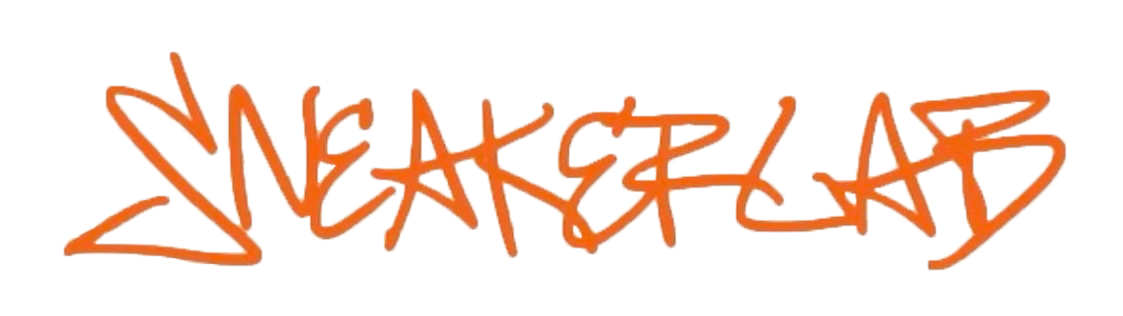
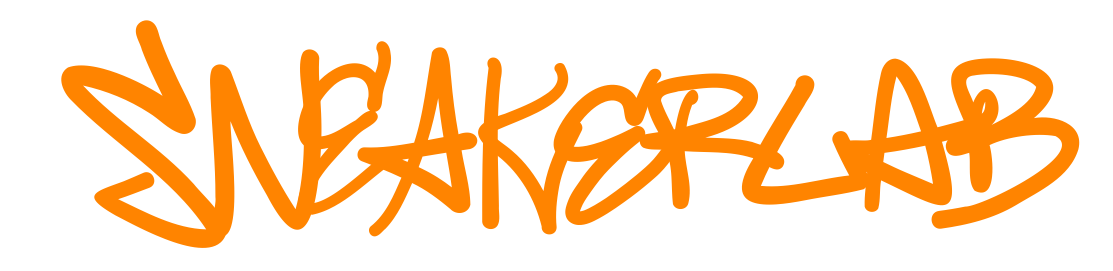
login on navbar, search bar & search page component

diff --git a/client/src/components/pages/Discover.js b/client/src/components/pages/Discover.js
@@ -1,10 +1,5 @@
 import React, { useState, useEffect } from "react";
-import {
-  GoogleOAuthProvider,
-  GoogleLogin,
-  googleLogout,
-  useGoogleLogin,
-} from "@react-oauth/google";
+import { GoogleOAuthProvider, GoogleLogin, useGoogleLogin } from "@react-oauth/google";
 
 import "../../utilities.css";
 import "./Discover.css";
@@ -14,7 +9,7 @@ import { get } from "../../utilities";
 //TODO: REPLACE WITH YOUR OWN CLIENT_ID
 const GOOGLE_CLIENT_ID = "577941677274-3aeilnjtp2hj98r8jvcsa6jvkoq9r5kc.apps.googleusercontent.com";
 
-const Discover = ({ userId, handleLogin, handleLogout }) => {
+const Discover = ({ userId, handleLogin }) => {
   const [lastSearch, setLastSearch] = useState("");
 
   useEffect(() => {
@@ -36,18 +31,6 @@ const Discover = ({ userId, handleLogin, handleLogout }) => {
   return (
     <GoogleOAuthProvider clientId={GOOGLE_CLIENT_ID}>
       {userId ? (
-        <button
-          onClick={() => {
-            googleLogout();
-            handleLogout();
-          }}
-        >
-          Logout
-        </button>
-      ) : (
-        <GoogleLogin onSuccess={handleLogin} onError={(err) => console.log(err)} />
-      )}
-      {userId ? (
         lastSearch ? (
           <div class="centered">
             <p>User logged in, last search: {lastSearch}</p>
@@ -60,13 +43,17 @@ const Discover = ({ userId, handleLogin, handleLogout }) => {
       ) : (
         <>
           <div class="centered">
-            <img src={logo} width="500" height="150" />
-            <div class="u-flex-alignCenter">
+            <img src={logo} width="600" height="150" />
+            <div className="u-flex-alignCenter">
               <button
                 className="u-pointer"
                 onClick={() => {
-                  useGoogleLogin();
-                  handleLogin();
+                  useGoogleLogin({
+                    onSuccess: handleLogin(),
+                    onError: (err) => {
+                      console.log(err);
+                    },
+                  });
                 }}
               >
                 login

diff --git a/client/src/components/modules/NavBar.js b/client/src/components/modules/NavBar.js
@@ -1,27 +1,49 @@
 import React from "react";
 import { Link } from "@reach/router";
 
+import { GoogleOAuthProvider, GoogleLogin, googleLogout } from "@react-oauth/google";
+
 import "./NavBar.css";
-import Search from "./Search.js";
+import SearchBar from "./SearchBar";
 
 import logo from "../../public/sneakerlab.png";
 
+const GOOGLE_CLIENT_ID = "577941677274-3aeilnjtp2hj98r8jvcsa6jvkoq9r5kc.apps.googleusercontent.com";
+
 const NavBar = (props) => {
   return (
-    <nav className="navContainer">
-      <Link to="/">
-        <img src={logo} height="70" width="200" className="floatLeft u-pointer u-relative" />
-      </Link>
-      <div className="u-reverseFlex">
-        <Link to="/profile/" className="nav-link">
-          profile
+    <GoogleOAuthProvider clientId={GOOGLE_CLIENT_ID}>
+      <nav className="navContainer">
+        <Link to="/">
+          <img src={logo} height="75" width="250" className="floatLeft u-pointer u-relative" />
         </Link>
-        <Link to="/" className="nav-link">
-          discover
-        </Link>
-        <Search id={props.id} />
-      </div>
-    </nav>
+        <div className="u-reverseFlex">
+          {props.id ? (
+            <button1
+              className="u-pointer"
+              onClick={() => {
+                googleLogout();
+                props.handleLogout();
+              }}
+            >
+              logout
+            </button1>
+          ) : (
+            <GoogleLogin onSuccess={props.handleLogin} onError={(err) => console.log(err)} />
+          )}
+          <Link to="/profile/" className="nav-link">
+            profile
+          </Link>
+          <Link to="/" className="nav-link">
+            discover
+          </Link>
+          <SearchBar id={props.id} />
+          <Link to="/search/" className="nav-link">
+            search results
+          </Link>
+        </div>
+      </nav>
+    </GoogleOAuthProvider>
   );
 };
 

diff --git a/client/src/components/modules/SearchBar.js b/client/src/components/modules/SearchBar.js
@@ -1,10 +1,15 @@
 import React, { useState, useEffect } from "react";
+import { Router, useNavigate } from "@reach/router";
+import { Route } from "react-router-dom";
+import { useHistory } from "react-router-dom";
+// import { useNavigate } from "@reach/router";
 
-import "./Search.css";
+import "./SearchBar.css";
+import Search from "../pages/Search";
 
 import { get, post } from "../../utilities";
 
-const Search = (props) => {
+const SearchBar = (props) => {
   const [query, setQuery] = useState("");
   const DEFAULT_TEXT = "";
 
@@ -17,6 +22,18 @@ const Search = (props) => {
       setQuery(DEFAULT_TEXT);
     };
   }, []);
+
+  const history = useHistory();
+  const routeChange = () => {
+    console.log("entered");
+    history.push("/search/");
+    console.log("switched pages");
+  };
+
+  // const navigate = useNavigate();
+  // const routeChange = () => {
+  //   navigate("/search/");
+  // };
 
   // called when user types in search box
   const handleInput = (event) => {
@@ -36,12 +53,10 @@ const Search = (props) => {
       console.log("posted search query");
     });
 
-    // testing update to search history
-    get("/api/whoami").then((user) => {
-      console.log(user.searches);
-    });
-
     setQuery(DEFAULT_TEXT);
+
+    // navigate to search results component
+    routeChange();
   };
 
   return (
@@ -65,4 +80,4 @@ const Search = (props) => {
   );
 };
 
-export default Search;
+export default SearchBar;

diff --git a/client/src/components/App.js b/client/src/components/App.js
@@ -6,12 +6,14 @@ import NotFound from "./pages/NotFound.js";
 import Discover from "./pages/Discover.js";
 import Profile from "./pages/Profile.js";
 import NavBar from "./modules/NavBar.js";
+import Search from "./pages/Search.js";
 
 import "../utilities.css";
 
 import { socket } from "../client-socket.js";
 
 import { get, post } from "../utilities";
+import { Route, Switch } from "react-router-dom";
 
 /**
  * Define the "App" component
@@ -36,6 +38,7 @@ const App = () => {
       setUserId(user._id);
       post("/api/initsocket", { socketid: socket.id });
     });
+    ``;
   };
 
   const handleLogout = () => {
@@ -45,10 +48,12 @@ const App = () => {
 
   return (
     <>
-      <NavBar id={userId} />
+      <NavBar id={userId} handleLogin={handleLogin} handleLogout={handleLogout} />
       <Router>
-        <Discover path="/" handleLogin={handleLogin} handleLogout={handleLogout} userId={userId} />
-        <Profile path="/profile/" />
+        <Discover path="/" handleLogin={handleLogin} userId={userId} />
+        <Profile path="/profile/" handleLogout={handleLogout} />
+        <Search path="/search/" userId={userId} />
+        {/* <Route path="/search/" userId={userId} /> */}
         <NotFound default />
       </Router>
     </>

diff --git a/client/src/components/pages/Search.js b/client/src/components/pages/Search.js
@@ -1,0 +1,26 @@
+import { get } from "../../utilities";
+import React from "react";
+import { useState, useEffect } from "react";
+
+const Search = (props) => {
+  const [name, setName] = useState("");
+  const [query, setQuery] = useState("");
+
+  console.log("mounted search results page");
+  useEffect(() => {
+    get("/api/whoami").then((user) => {
+      setName(user.displayName);
+      setQuery(props.searchQuery);
+    });
+  });
+
+  return (
+    <div className="centered">
+      <p>user: {name}</p>
+      <p>id: {props.id}</p>
+      <p>search query: {query}</p>
+    </div>
+  );
+};
+
+export default Search;

diff --git a/client/src/utilities.css b/client/src/utilities.css
@@ -26,7 +26,7 @@
   --white: #fff;
   --black: #020006;
   --red: rgb(221, 29, 29);
-  --orange: rgb(216, 90, 17);
+  --orange: #ff8400;
   --green: rgb(16, 66, 22);
 
   --xs: 4px;
@@ -162,6 +162,22 @@ button {
   font-size: var(--l);
   font-family: "Play";
   transition-duration: 0.4s;
+}
+
+.button1 {
+  background-color: var(--black);
+  color: var(--white);
+  border: none;
+  border-radius: var(--s);
+  padding: 10px 30px;
+  font-size: var(--l);
+  font-family: "Play";
+  transition-duration: 0.4s;
+}
+
+.button1:hover {
+  background-color: var(--black);
+  color: var(--orange);
 }
 
 button:hover {

diff --git a/client/src/components/pages/Profile.js b/client/src/components/pages/Profile.js
@@ -1,8 +1,9 @@
 import { get } from "../../utilities";
 import React from "react";
 import { useState, useEffect } from "react";
+import { googleLogout } from "@react-oauth/google";
 
-const Profile = () => {
+const Profile = ({ handleLogout }) => {
   const [displayName, setDisplayName] = useState("insert display name");
   const [about, setAbout] = useState("insert about info");
 

diff --git a/client/src/components/pages/Discover.css b/client/src/components/pages/Discover.css
@@ -1,7 +1,1 @@
 /* Fill me in :) */
-.logo {
-  max-width: 500;
-  max-height: 150;
-
-  background-image: url("../../public/sneakerlab.jpg");
-}
